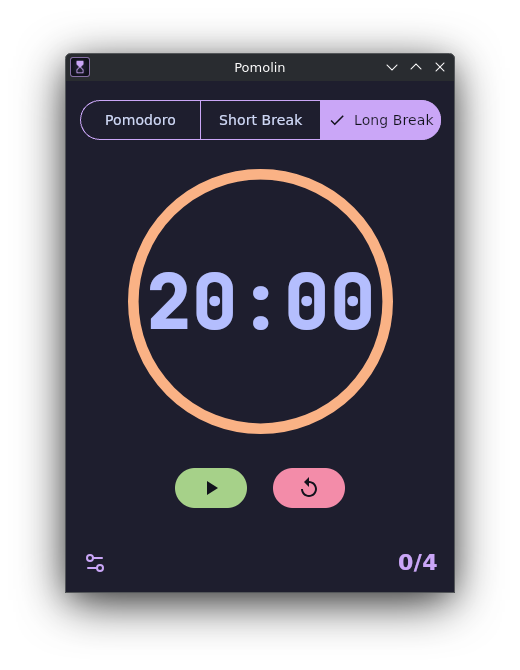
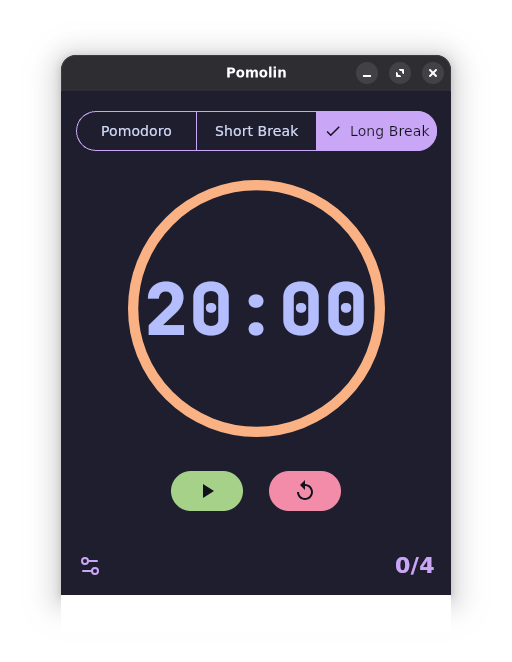
chore: update to v1.1.7, add window control buttons and refresh metadata
- Added close, maximize, and restore buttons for improved window navigation.
- Updated application version to 1.1.7 across build files and Flatpak metadata.
- Refreshed screenshot URLs and added new application screenshots.
- Adjusted branding colors for light and dark modes in `metainfo.xml`.

diff --git a/composeApp/src/desktopMain/kotlin/io/github/redddfoxxyy/pomolin/main.kt b/composeApp/src/desktopMain/kotlin/io/github/redddfoxxyy/pomolin/main.kt
@@ -7,8 +7,13 @@ import androidx.compose.foundation.layout.Column
 import androidx.compose.foundation.layout.fillMaxWidth
 import androidx.compose.foundation.layout.height
 import androidx.compose.foundation.layout.padding
+import androidx.compose.foundation.layout.size
+import androidx.compose.foundation.shape.CircleShape
 import androidx.compose.foundation.shape.RoundedCornerShape
 import androidx.compose.foundation.window.WindowDraggableArea
+import androidx.compose.material3.Icon
+import androidx.compose.material3.IconButton
+import androidx.compose.material3.IconButtonDefaults
 import androidx.compose.material3.Surface
 import androidx.compose.material3.Text
 import androidx.compose.ui.Alignment
@@ -18,6 +23,7 @@ import androidx.compose.ui.text.font.FontFamily
 import androidx.compose.ui.unit.dp
 import androidx.compose.ui.unit.sp
 import androidx.compose.ui.window.Window
+import androidx.compose.ui.window.WindowPlacement
 import androidx.compose.ui.window.application
 import androidx.compose.ui.window.rememberWindowState
 import io.github.redddfoxxyy.pomolin.data.AppSettings
@@ -27,6 +33,9 @@ import org.jetbrains.compose.resources.painterResource
 import pomolin.composeapp.generated.resources.JetBrainsMonoNerdFont_ExtraBold
 import pomolin.composeapp.generated.resources.Pomolin
 import pomolin.composeapp.generated.resources.Res
+import pomolin.composeapp.generated.resources.close
+import pomolin.composeapp.generated.resources.maximize
+import pomolin.composeapp.generated.resources.restore
 import java.awt.Dimension
 import javax.swing.SwingUtilities
 
@@ -81,6 +90,89 @@ fun main() = application {
 								fontSize = 18.sp,
 								color = ThemeManager.colors.mauve
 							)
+							Box(
+								modifier = Modifier
+									.padding(end = 8.dp, top = 2.dp)
+									.align(Alignment.TopEnd)
+									.size(22.dp) // This now correctly controls the background circle size
+									.background(
+										color = ThemeManager.colors.surface.copy(alpha = 0.8f),
+										shape = CircleShape
+									),
+								contentAlignment = Alignment.Center
+							) {
+								IconButton(
+									onClick = { exitApplication() },
+									modifier = Modifier
+//										.padding(end = 10.dp, top = 1.dp)
+										.size(22.dp) // Smaller size for just the button
+										.align(Alignment.TopEnd),
+//									.background(
+//										color = ThemeManager.colors.surface,
+//										shape = CircleShape // Explicit circle shape
+//									),
+									colors = IconButtonDefaults.iconButtonColors(
+										containerColor = Color.Transparent, // Button itself has mauve background
+										contentColor = ThemeManager.colors.mauve.copy(alpha = 0.8f), // Icon color
+									),
+								) {
+									Icon(
+										painterResource(Res.drawable.close),
+										contentDescription = "Close App",
+										modifier = Modifier.size(16.dp) // Control icon size
+									)
+								}
+							}
+							Box(
+								modifier = Modifier
+									.padding(end = 36.dp, top = 2.dp)
+									.align(Alignment.TopEnd)
+									.size(22.dp) // This now correctly controls the background circle size
+									.background(
+										color = ThemeManager.colors.surface.copy(alpha = 0.8f),
+										shape = CircleShape
+									),
+								contentAlignment = Alignment.Center
+							) {
+								IconButton(
+									onClick = {
+										windowState.placement =
+											if (windowState.placement == WindowPlacement.Maximized) {
+												WindowPlacement.Floating
+											} else {
+												WindowPlacement.Maximized
+											}
+									},
+									modifier = Modifier
+//										.padding(end = 10.dp, top = 1.dp)
+										.size(22.dp) // Smaller size for just the button
+										.align(Alignment.TopEnd),
+//									.background(
+//										color = ThemeManager.colors.surface,
+//										shape = CircleShape // Explicit circle shape
+//									),
+									colors = IconButtonDefaults.iconButtonColors(
+										containerColor = Color.Transparent, // Button itself has mauve background
+										contentColor = ThemeManager.colors.mauve.copy(alpha = 0.8f), // Icon color
+									),
+								) {
+									Icon(
+										painterResource(
+											if (windowState.placement == WindowPlacement.Maximized) {
+												Res.drawable.restore // Icon when maximized (shows restore icon)
+											} else {
+												Res.drawable.maximize // Icon when not maximized (shows maximize icon)
+											}
+										),
+										contentDescription = if (windowState.placement == WindowPlacement.Maximized) {
+											"Restore Window"
+										} else {
+											"Maximize Window"
+										},
+										modifier = Modifier.size(16.dp) // Control icon size
+									)
+								}
+							}
 						}
 					}
 				}
